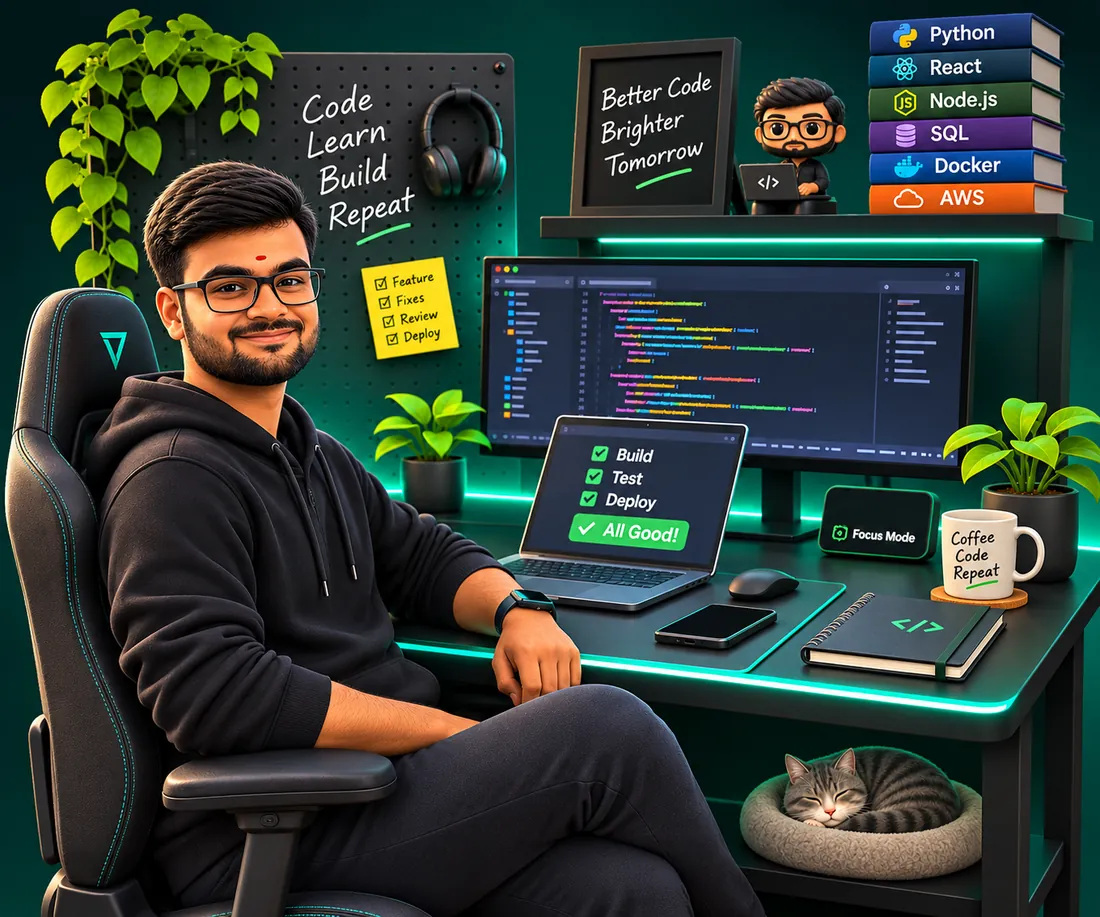
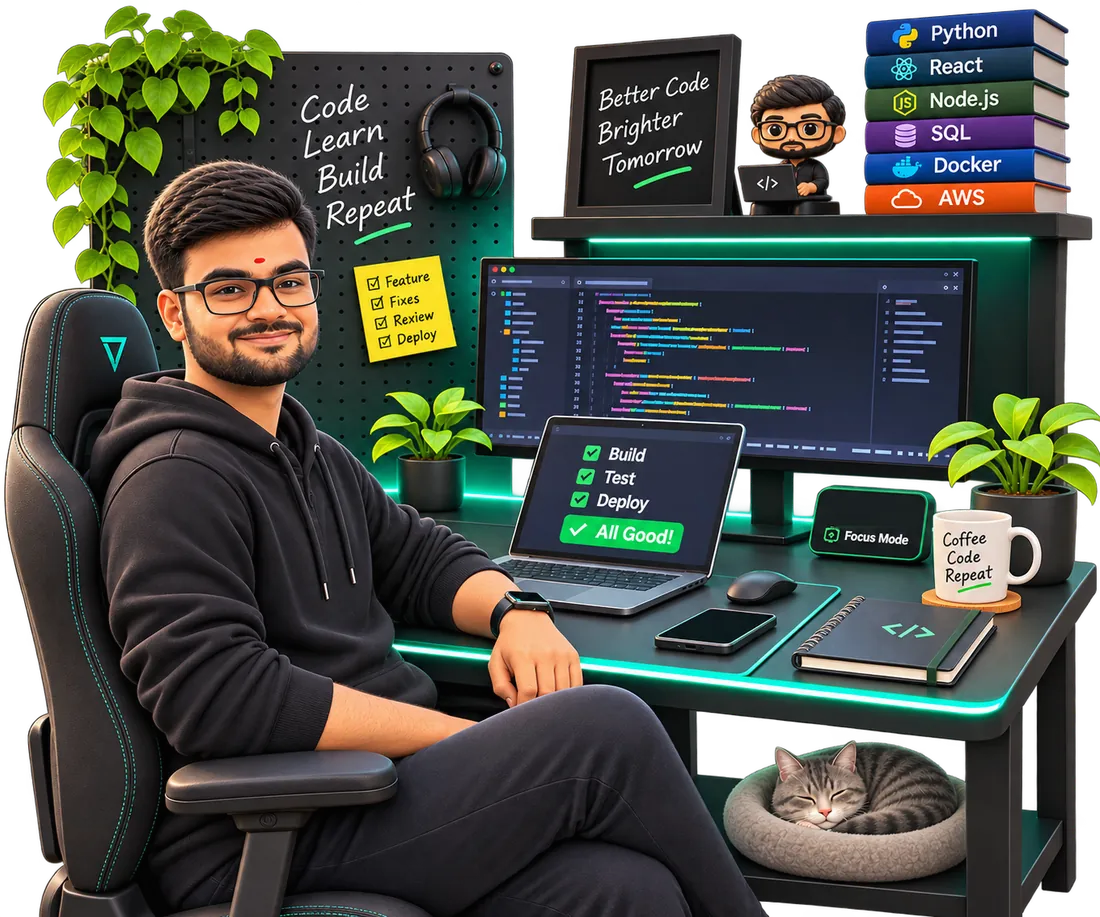
Hero: transparent cut-out of the scene, animations realigned

diff --git a/src/components/HeroScene.jsx b/src/components/HeroScene.jsx
@@ -2,7 +2,7 @@ import useClock from "../hooks/useClock";
 import "./HeroScene.css";
 
 // Animated layer over the hero illustration. The SVG uses the source image's own
-// pixel grid (1374x1145), so every effect sits on the right spot and scales and
+// pixel grid (1373x1145), so every effect sits on the right spot and scales and
 // floats with the picture. Light effects add light (mix-blend-mode: screen); the
 // blink draws eyelids normally. Motion is off for visitors who prefer reduced
 // motion (the live clock stays).
@@ -12,15 +12,15 @@ const HeroScene = () => {
   const [hours, minutes] = useClock("11:47").split(":");
 
   return (
-    <svg className="hero-scene" viewBox="0 0 1374 1145" aria-hidden="true" focusable="false">
+    <svg className="hero-scene" viewBox="0 0 1373 1145" aria-hidden="true" focusable="false">
       <defs>
         <linearGradient id="hs-lid-left" x1="0" y1="0" x2="0" y2="1">
-          <stop offset="0" stopColor="#8a4a2d" />
-          <stop offset="1" stopColor="#a35634" />
+          <stop offset="0" stopColor="#8d563f" />
+          <stop offset="1" stopColor="#a8623f" />
         </linearGradient>
         <linearGradient id="hs-lid-right" x1="0" y1="0" x2="0" y2="1">
-          <stop offset="0" stopColor="#b36239" />
-          <stop offset="1" stopColor="#a85834" />
+          <stop offset="0" stopColor="#ae7557" />
+          <stop offset="1" stopColor="#b26a4c" />
         </linearGradient>
         <filter id="hs-soft" x="-50%" y="-50%" width="200%" height="200%">
           <feGaussianBlur stdDeviation="2" />
@@ -33,35 +33,35 @@ const HeroScene = () => {
       {/* Me: eyelids close for a moment every few seconds */}
       <g className="hs-anim">
         <g className="hs-lid">
-          <ellipse cx="291" cy="358" rx="18" ry="7.5" fill="url(#hs-lid-left)" />
-          <path className="hs-lash" d="M273.5 360 Q291 366.5 308.5 360" />
+          <ellipse cx="285" cy="361.5" rx="18.5" ry="7.5" fill="url(#hs-lid-left)" />
+          <path className="hs-lash" d="M267 363.5 Q285 370 303 363.5" />
         </g>
-        <g transform="rotate(-6 360.5 352.5)">
+        <g transform="rotate(-5 361 354)">
           <g className="hs-lid">
-            <ellipse cx="360.5" cy="352.5" rx="18.5" ry="7" fill="url(#hs-lid-right)" />
-            <path className="hs-lash" d="M342.5 354 Q360.5 360.5 378.5 354" />
+            <ellipse cx="361" cy="354" rx="18" ry="7" fill="url(#hs-lid-right)" />
+            <path className="hs-lash" d="M343.5 356 Q361 362.5 378.5 356" />
           </g>
         </g>
       </g>
 
       {/* Watch on my wrist: buzz ripples, the screen lights up, a check pings up */}
       <g className="hs-anim hs-light">
-        <ellipse className="hs-ripple" cx="665" cy="745" rx="26" ry="16" />
-        <ellipse className="hs-ripple hs-ripple-2" cx="665" cy="745" rx="26" ry="16" />
+        <ellipse className="hs-ripple" cx="660" cy="746" rx="26" ry="16" />
+        <ellipse className="hs-ripple hs-ripple-2" cx="660" cy="746" rx="26" ry="16" />
         <polygon
           className="hs-watch-screen"
-          points="642,738 680,742 688,751 648,749"
+          points="638,740 676,741 683,751 643,752"
           filter="url(#hs-soft)"
         />
       </g>
       <g className="hs-anim hs-ping">
-        <circle cx="684" cy="712" r="12" />
-        <path d="M678.5 712.5 l4 4 l7.5 -8.5" />
+        <circle cx="680" cy="712" r="12" />
+        <path d="M674.5 712.5 l4 4 l7.5 -8.5" />
       </g>
 
       {/* Monitor: the current line steps through the code, cursor at the line end */}
       <g className="hs-anim hs-light">
-        <rect className="hs-code-line" x="766" y="-5.5" width="308" height="11" rx="2" />
+        <rect className="hs-code-line" x="762" y="-5.5" width="308" height="11" rx="2" />
         <g className="hs-code-caret-pos">
           <rect className="hs-code-caret" x="4" y="-5.5" width="2.5" height="11" />
         </g>
@@ -69,28 +69,28 @@ const HeroScene = () => {
 
       {/* Laptop: Build, Test, Deploy tick in turn, then "All Good!" lights up */}
       <g className="hs-anim hs-light" filter="url(#hs-glow)">
-        <circle className="hs-tick hs-tick-1" cx="749" cy="566" r="13" />
-        <circle className="hs-tick hs-tick-2" cx="742" cy="594" r="13" />
-        <circle className="hs-tick hs-tick-3" cx="734" cy="622" r="13" />
-        <rect className="hs-good" x="717" y="642" width="136" height="44" rx="12" />
+        <circle className="hs-tick hs-tick-1" cx="738" cy="566" r="13" />
+        <circle className="hs-tick hs-tick-2" cx="731" cy="595" r="13" />
+        <circle className="hs-tick hs-tick-3" cx="723" cy="623" r="13" />
+        <rect className="hs-good" x="705" y="643" width="142" height="39" rx="12" />
       </g>
 
       {/* Coffee: steam rising from the mug */}
       <g className="hs-anim hs-light" filter="url(#hs-soft)">
-        <path className="hs-steam hs-steam-1" d="M1216 634 c-7 -10 7 -20 0 -30 s-7 -20 0 -30" />
-        <path className="hs-steam hs-steam-2" d="M1234 630 c7 -10 -7 -20 0 -30 s7 -20 0 -30" />
-        <path className="hs-steam hs-steam-3" d="M1252 634 c-7 -10 7 -20 0 -30 s-7 -20 0 -30" />
+        <path className="hs-steam hs-steam-1" d="M1195 636 c-7 -10 7 -20 0 -30 s-7 -20 0 -30" />
+        <path className="hs-steam hs-steam-2" d="M1213 632 c7 -10 -7 -20 0 -30 s7 -20 0 -30" />
+        <path className="hs-steam hs-steam-3" d="M1231 636 c-7 -10 7 -20 0 -30 s-7 -20 0 -30" />
       </g>
 
       {/* Cat: z z Z drifting up while it sleeps */}
       <g className="hs-anim hs-light">
-        <text className="hs-z hs-z-1" x="1060" y="940">z</text>
-        <text className="hs-z hs-z-2" x="1060" y="940">z</text>
-        <text className="hs-z hs-z-3" x="1060" y="940">Z</text>
+        <text className="hs-z hs-z-1" x="1048" y="930">z</text>
+        <text className="hs-z hs-z-2" x="1048" y="930">z</text>
+        <text className="hs-z hs-z-3" x="1048" y="930">Z</text>
       </g>
 
       {/* Desk clock: live time (the painted digits were removed from the image) */}
-      <text className="hs-clock" x="1095.5" y="648" textAnchor="middle">
+      <text className="hs-clock" x="1086" y="651" textAnchor="middle">
         {hours}
         <tspan className="hs-clock-colon">:</tspan>
         {minutes}

diff --git a/src/components/HeroScene.css b/src/components/HeroScene.css
@@ -1,5 +1,5 @@
 /* Animated layer over the hero illustration (see HeroScene.jsx).
-   All lengths are in the illustration's own pixels (viewBox 1374x1145). */
+   All lengths are in the illustration's own pixels (viewBox 1373x1145). */
 .hero-scene {
   position: absolute;
   inset: 0;
@@ -93,8 +93,8 @@
 
 /* ---------- monitor: current line + cursor ----------
    One stop per code line: [y centre, x where the line ends]
-   368/817 378.5/881 388/821 398.5/855 410.5/946 420.5/894
-   435/1016 450/816 475.5/948 492.5/892 508/1019            */
+   368/812 378.5/875 388/814 399/849 410.5/940 420.5/887
+   435/1009 450/810 475/941 492/885 507.5/1011              */
 .hs-code-line {
   fill: rgba(62, 237, 183, 0.13);
   animation: hs-code-line 8.8s step-end infinite;
@@ -113,28 +113,28 @@
   0% { transform: translateY(368px); }
   9.09% { transform: translateY(378.5px); }
   18.18% { transform: translateY(388px); }
-  27.27% { transform: translateY(398.5px); }
+  27.27% { transform: translateY(399px); }
   36.36% { transform: translateY(410.5px); }
   45.45% { transform: translateY(420.5px); }
   54.55% { transform: translateY(435px); }
   63.64% { transform: translateY(450px); }
-  72.73% { transform: translateY(475.5px); }
-  81.82% { transform: translateY(492.5px); }
-  90.91%, 100% { transform: translateY(508px); }
+  72.73% { transform: translateY(475px); }
+  81.82% { transform: translateY(492px); }
+  90.91%, 100% { transform: translateY(507.5px); }
 }
 
 @keyframes hs-code-caret {
-  0% { transform: translate(817px, 368px); }
-  9.09% { transform: translate(881px, 378.5px); }
-  18.18% { transform: translate(821px, 388px); }
-  27.27% { transform: translate(855px, 398.5px); }
-  36.36% { transform: translate(946px, 410.5px); }
-  45.45% { transform: translate(894px, 420.5px); }
-  54.55% { transform: translate(1016px, 435px); }
-  63.64% { transform: translate(816px, 450px); }
-  72.73% { transform: translate(948px, 475.5px); }
-  81.82% { transform: translate(892px, 492.5px); }
-  90.91%, 100% { transform: translate(1019px, 508px); }
+  0% { transform: translate(812px, 368px); }
+  9.09% { transform: translate(875px, 378.5px); }
+  18.18% { transform: translate(814px, 388px); }
+  27.27% { transform: translate(849px, 399px); }
+  36.36% { transform: translate(940px, 410.5px); }
+  45.45% { transform: translate(887px, 420.5px); }
+  54.55% { transform: translate(1009px, 435px); }
+  63.64% { transform: translate(810px, 450px); }
+  72.73% { transform: translate(941px, 475px); }
+  81.82% { transform: translate(885px, 492px); }
+  90.91%, 100% { transform: translate(1011px, 507.5px); }
 }
 
 @keyframes hs-blink {

diff --git a/src/components/Hero.css b/src/components/Hero.css
@@ -229,21 +229,16 @@
   transition: transform 0.4s var(--ease);
 }
 
-/* illustration card: the image + animated layer (HeroScene), rounded, no border.
-   Everything floats together. */
+/* illustration (transparent cut-out) + animated layer (HeroScene) float together */
 .hero-art {
   position: relative;
-  border-radius: 24px;
-  box-shadow: 0 30px 60px -30px rgba(0, 0, 0, 0.6);
+  filter: drop-shadow(0 30px 40px rgba(0, 0, 0, 0.55));
   animation: levitate 6s ease-in-out infinite alternate;
 }
 
 .hero-art-inner {
   position: relative;
-  overflow: hidden;
   isolation: isolate;
-  border-radius: 24px;
-  background: #031a1b; /* the scene's own background colour while the image loads */
 }
 
 .hero-image {
@@ -283,7 +278,7 @@
   font-weight: 600;
 }
 
-.hero-badge-a { top: -2.5%; left: 5%; } /* overhangs the card top, clear of the speech bubble */
+.hero-badge-a { top: 6%; left: 2%; }
 .hero-badge-b { top: 44%; right: -2%; animation-delay: -1.5s; }
 .hero-badge-c { bottom: 8%; left: 8%; animation-delay: -3s; }
 
